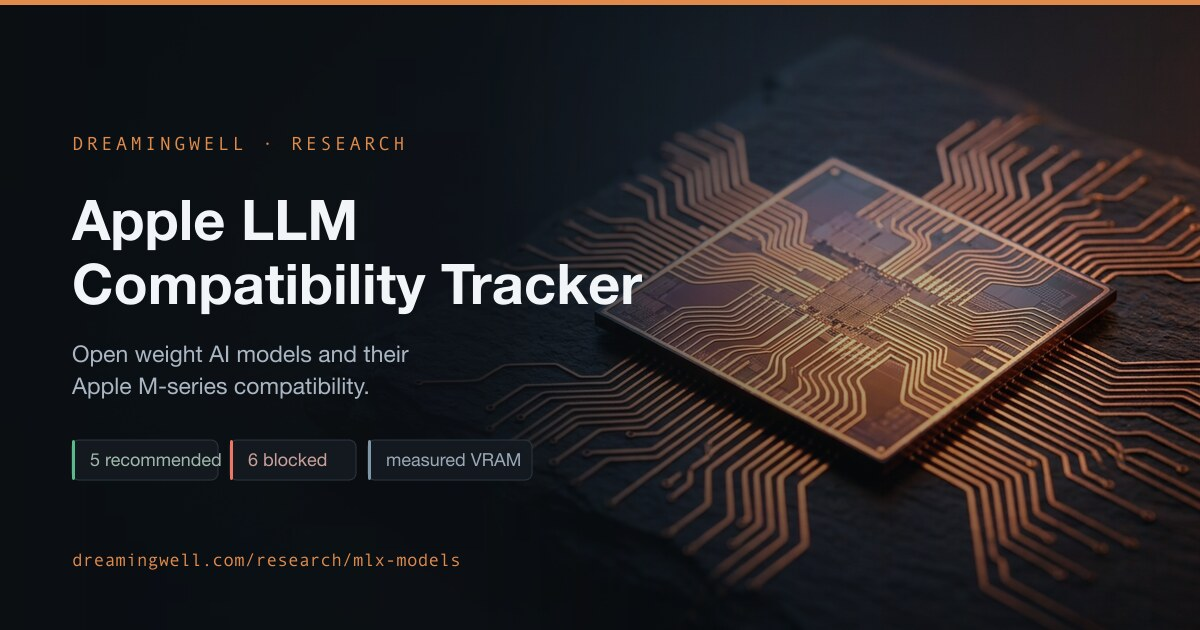
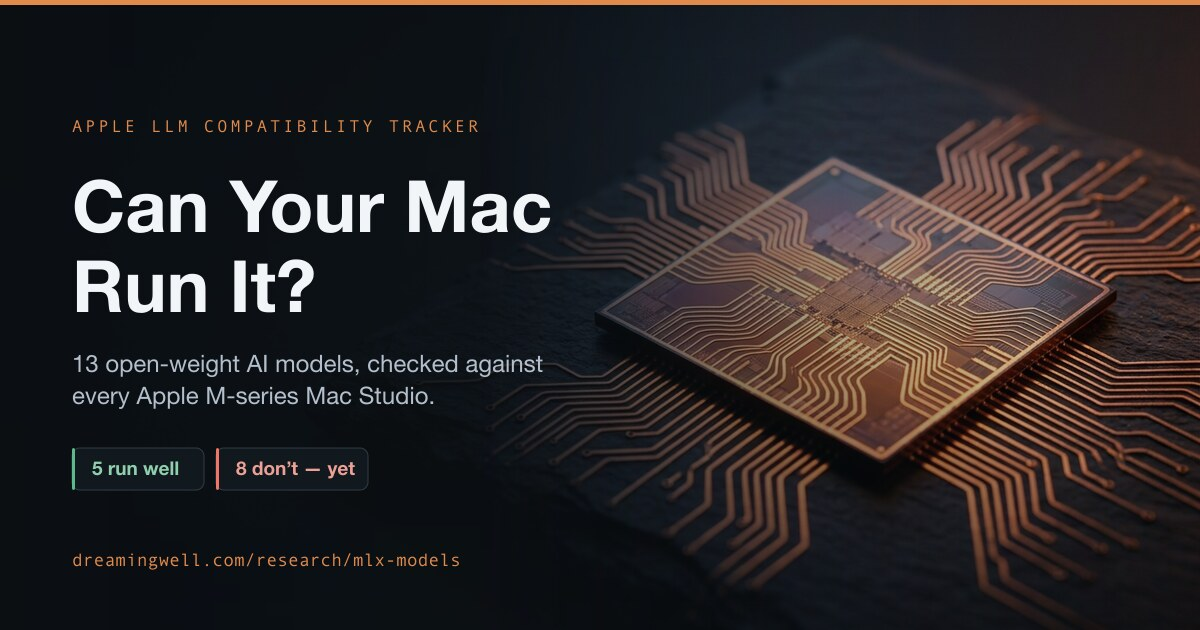
research: refresh MLX model status page

diff --git a/research/mlx-models/index.html b/research/mlx-models/index.html
@@ -14,12 +14,12 @@
 <meta property="og:image:type" content="image/jpeg">
 <meta property="og:image:width" content="1200">
 <meta property="og:image:height" content="630">
-<meta property="og:image:alt" content="Dark status card titled Apple LLM Compatibility Tracker, showing GLM-4.7 and Muse Glimmer as recommended, Qwen3.8-27B degraded, and DeepSeek V4 blocked.">
+<meta property="og:image:alt" content="Dark card over a glowing Apple Silicon die reading Can Your Mac Run It? - 13 open-weight AI models checked against every Apple M-series Mac Studio, 5 run well and 8 do not yet.">
 <meta name="twitter:card" content="summary_large_image">
 <meta name="twitter:title" content="Apple LLM Compatibility Tracker">
 <meta name="twitter:description" content="Open weight AI models and their Apple M-series compatibility.">
 <meta name="twitter:image" content="https://dreamingwell.com/research/mlx-models/card.jpg">
-<meta name="twitter:image:alt" content="Dark status card titled Apple LLM Compatibility Tracker, showing GLM-4.7 and Muse Glimmer as recommended, Qwen3.8-27B degraded, and DeepSeek V4 blocked.">
+<meta name="twitter:image:alt" content="Dark card over a glowing Apple Silicon die reading Can Your Mac Run It? - 13 open-weight AI models checked against every Apple M-series Mac Studio, 5 run well and 8 do not yet.">
 <link rel="canonical" href="https://dreamingwell.com/research/mlx-models/">
 <link rel="preconnect" href="https://fonts.googleapis.com">
 <link rel="preconnect" href="https://fonts.gstatic.com" crossorigin>
@@ -255,7 +255,7 @@
     <div class="stat mid"><span class="n">1</span><span class="k">Runs, degraded</span></div>
     <div class="stat bad"><span class="n">6</span><span class="k">Blocked</span></div>
     <div class="stat"><span class="n">31</span><span class="k">Open items</span></div>
-    <div class="stat time"><time class="n ago" datetime="2026-08-25T23:03:26-04:00">2026-08-25 23:03</time><span class="k">Since last change</span></div>
+    <div class="stat time"><time class="n ago" datetime="2026-08-25T23:06:38-04:00">2026-08-25 23:06</time><span class="k">Since last change</span></div>
   </div>
 
 
